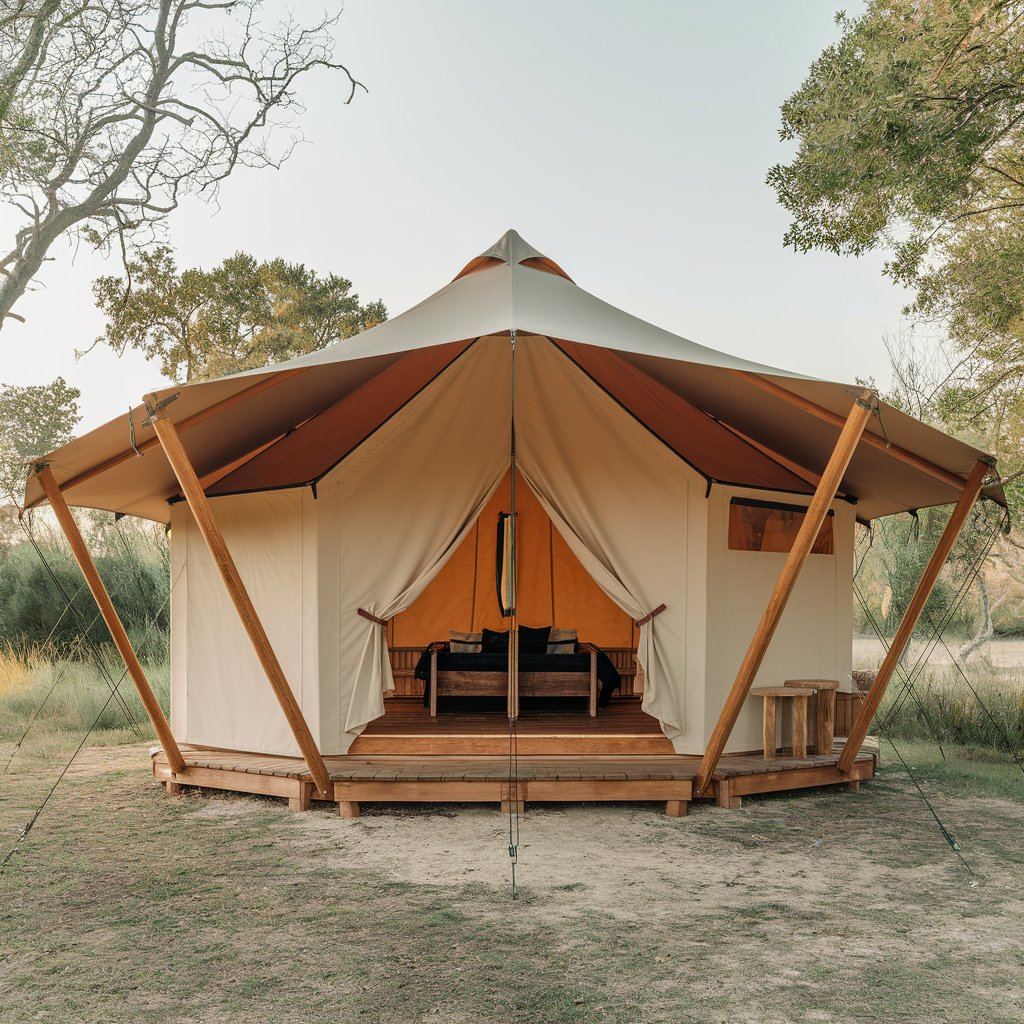
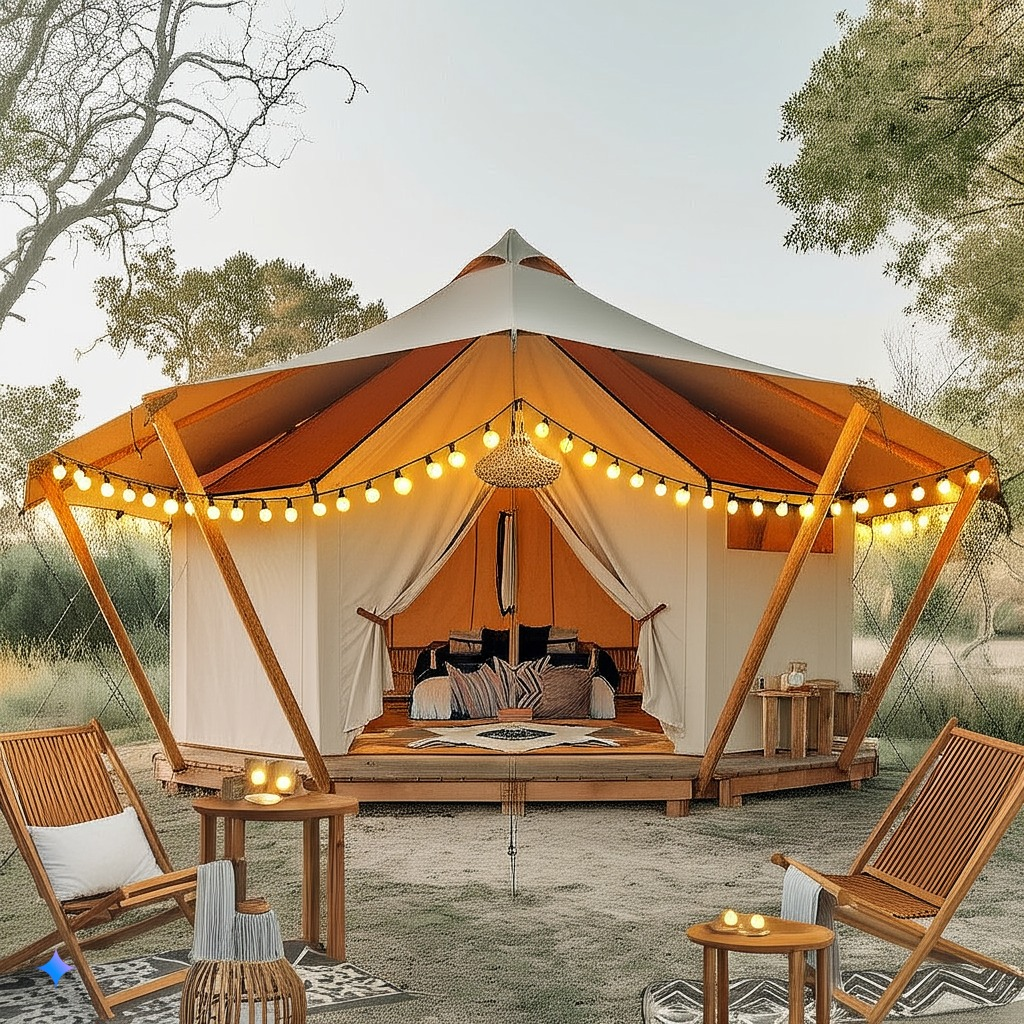
fotos cozy agregadas

diff --git a/src/app/page.tsx b/src/app/page.tsx
@@ -163,7 +163,7 @@ export default function GlampingReservations() {
                 </CardHeader>
                 <CardContent>
                   <Image
-                    src="/dos-camas-individuales.jpeg"
+                    src="/carpacompartida.jpeg"
                     alt="Carpa Compartida"
                     width={400}
                     height={300}
